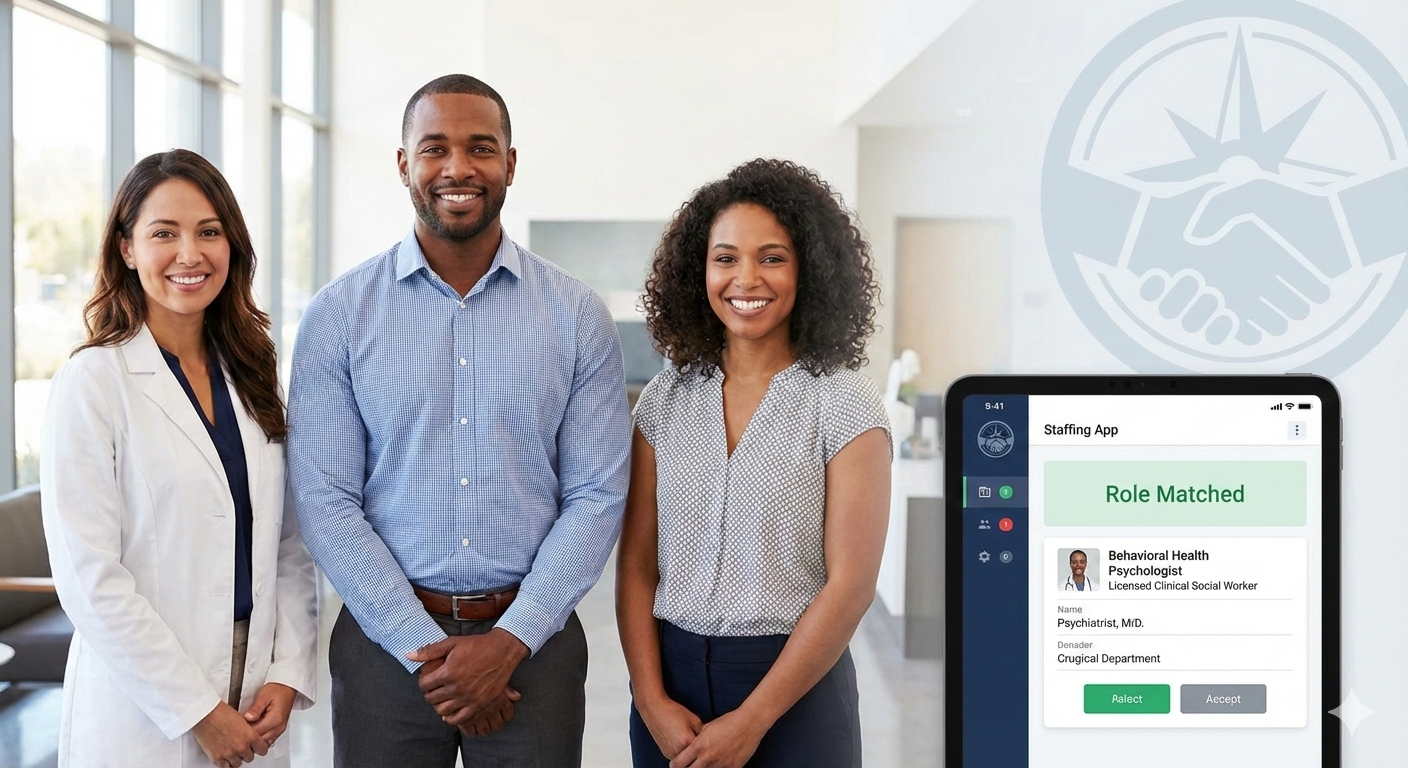
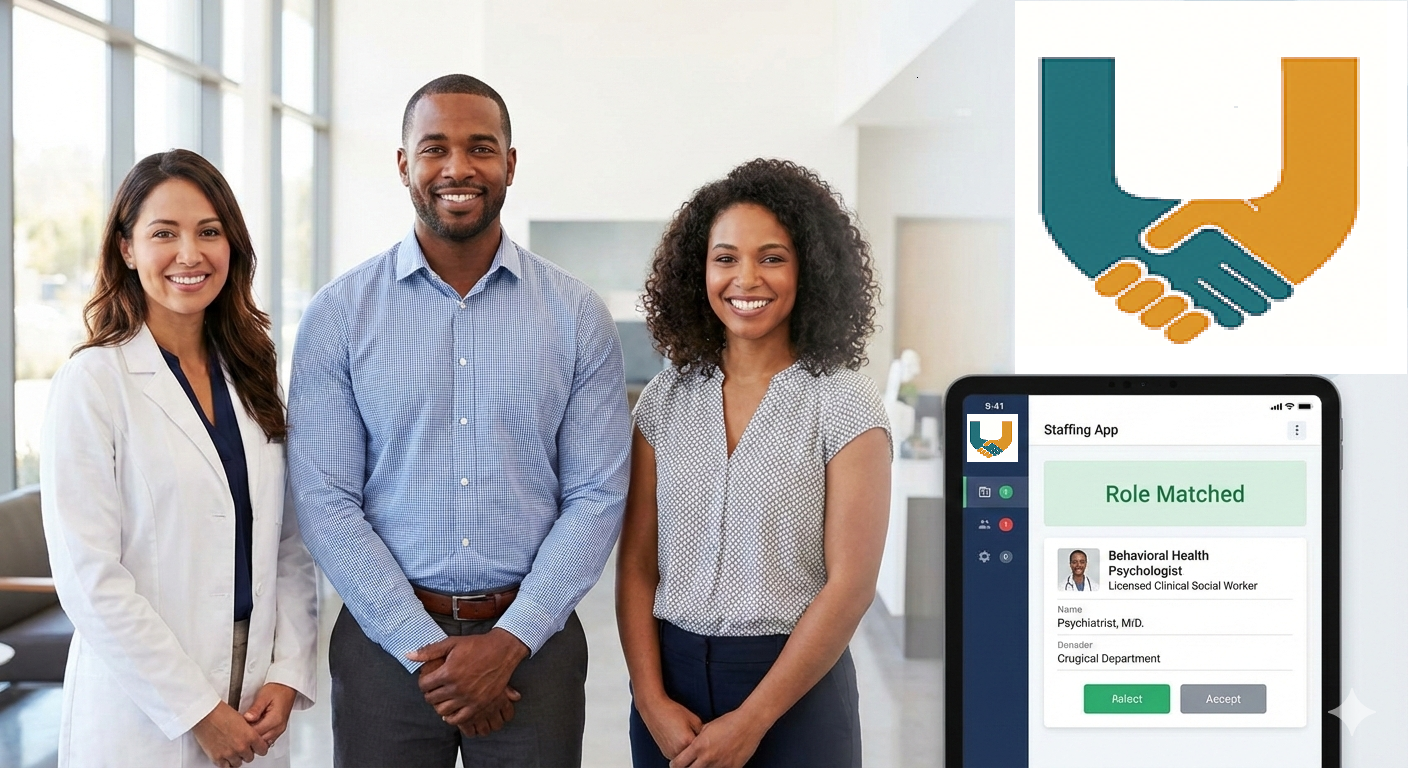
``` feat(layout): add consistent bottom margins and style apply-now visual
- add margin-bottom: clamp(1rem, calc(2vw + 1rem), 2rem) to .hero, .leadership-header, and .leadership-content
- add [data-component="ApplyNowVisual"] selector with margin-inline: 0px and border-radius: 0.75rem for img
- update apply-now.png and apply-now.webp binary assets
```

Changed region(s): [[0.7188, 0.0, 1.0, 0.5], [0.6875, 0.5312, 0.75, 0.625]]

diff --git a/src/styles/about-leadership.css b/src/styles/about-leadership.css
@@ -24,6 +24,7 @@
   box-shadow: 0 16px 40px rgba(15, 23, 42, 0.5);
   color: var(--color-text-light);
   padding: clamp(1rem, calc(2vw + 1rem), 2rem);
+  margin-bottom: clamp(1rem, calc(2vw + 1rem), 2rem);
   /* Text formatting inherited by children */
   text-justify: inter-word;
   hyphens: auto;
@@ -50,6 +51,7 @@
   display: flex;
   flex-direction: column;
   gap: 1.75rem;
+  margin-bottom: clamp(1rem, calc(2vw + 1rem), 2rem);
 }
 
 .leadership-header-layout {

diff --git a/src/styles/contact.css b/src/styles/contact.css
@@ -235,6 +235,15 @@ html[data-theme="dark"] #contact .role-chip[aria-pressed="true"] {
   gap: 0.75rem;
 }
 
+[data-component="ApplyNowVisual"] {
+  margin-inline: 0px;
+
+  img {
+    border-radius: 0.75rem;
+  }
+
+}
+
 @media (min-width: 520px) {
   .apply-step__grid {
     grid-template-columns: repeat(2, minmax(0, 1fr));

diff --git a/src/styles/home.css b/src/styles/home.css
@@ -8,6 +8,7 @@
   box-shadow: 0 16px 40px rgba(15, 23, 42, 0.5);
   color: var(--color-text-light);
   padding: clamp(1rem, calc(2vw + 1rem), 2rem);
+  margin-bottom: clamp(1rem, calc(2vw + 1rem), 2rem);
   display: grid;
   gap: var(--space-8);
   align-items: center;
